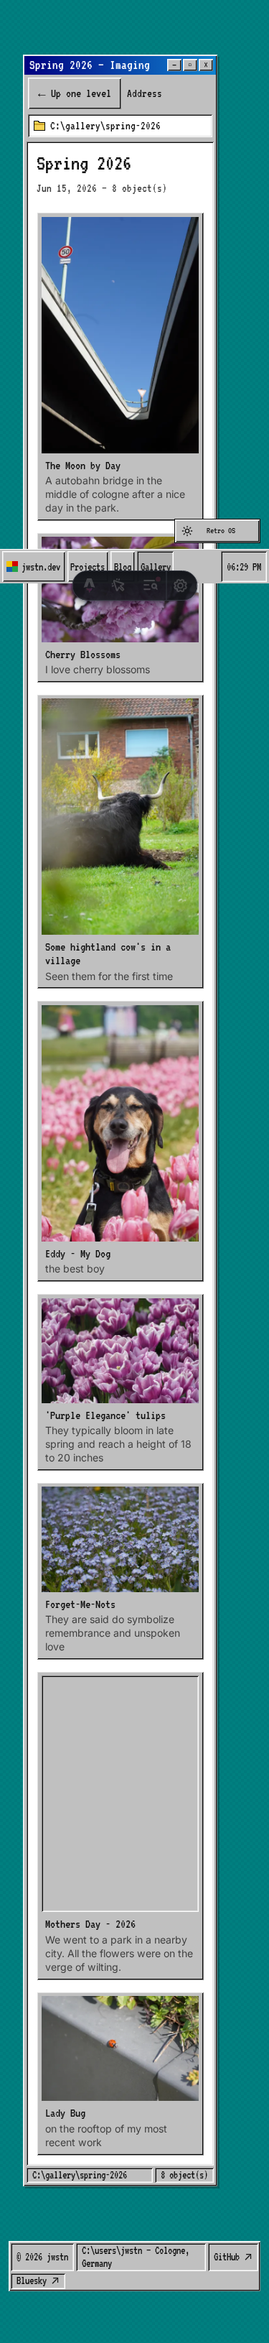
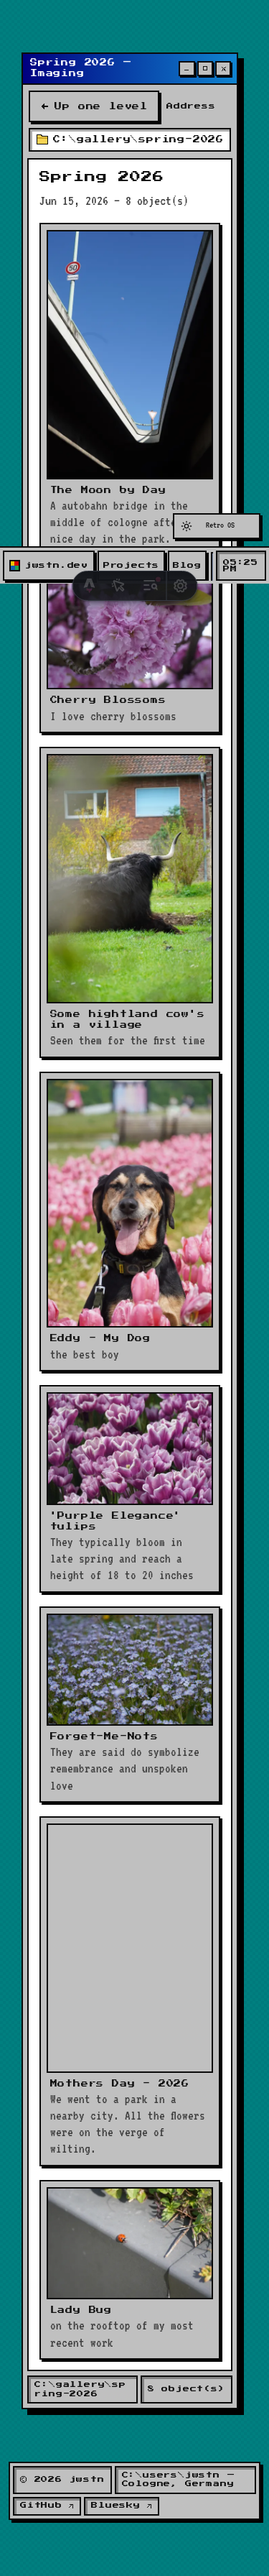
Screenshots: isometric theme + 8bitcn reworks of terminal and retro-os; refreshed 12-theme contact sheet

diff --git a/docs/SCREENSHOTS.md b/docs/SCREENSHOTS.md
@@ -15,6 +15,38 @@ An overview contact sheet of all theme homes: [`_overview.png`](screenshots/_ove
 
 ---
 
+## 0b. Isometric — 2.5D drafting table
+
+Space Grotesk + Geist Mono, drafting-paper grid (dark: night drafting desk with a glowing grid), pure-CSS
+bobbing cubes by the hero, exploded-view project slabs with grid references, dimension-line furniture,
+gallery photos tilted onto isometric planes that straighten on hover.
+
+| | | |
+|---|---|---|
+| ![isometric home](screenshots/isometric/home-desktop.png) | ![isometric projects](screenshots/isometric/projects-desktop.png) | ![isometric album](screenshots/isometric/album-desktop.png) |
+| ![isometric dark](screenshots/isometric/home-dark.png) | ![isometric blog](screenshots/isometric/blog-desktop.png) | ![isometric mobile](screenshots/isometric/home-mobile.png) |
+
+<details>
+<summary>All isometric captures</summary>
+
+![home desktop](screenshots/isometric/home-desktop.png)
+![home mobile](screenshots/isometric/home-mobile.png)
+![home dark](screenshots/isometric/home-dark.png)
+![projects desktop](screenshots/isometric/projects-desktop.png)
+![projects mobile](screenshots/isometric/projects-mobile.png)
+![project desktop](screenshots/isometric/project-desktop.png)
+![project mobile](screenshots/isometric/project-mobile.png)
+![blog desktop](screenshots/isometric/blog-desktop.png)
+![blog mobile](screenshots/isometric/blog-mobile.png)
+![gallery desktop](screenshots/isometric/gallery-desktop.png)
+![gallery mobile](screenshots/isometric/gallery-mobile.png)
+![album desktop](screenshots/isometric/album-desktop.png)
+![album mobile](screenshots/isometric/album-mobile.png)
+
+</details>
+
+---
+
 ## 0. Classic — your current design (default)
 
 The baseline, kept selectable for comparison. Geist Mono, quiet purple accents.
@@ -106,10 +138,11 @@ hard step easings — no soft fades anywhere.
 
 ---
 
-## 3. Terminal — CRT console
+## 3. Terminal — CRT console *(reworked with [8bitcn/ui](https://www.8bitcn.com/) patterns)*
 
-Geist Mono, phosphor green on black (light mode is an amber "paper terminal"), scanlines, typed
-boot-sequence home page, projects as `cat ~/projects.txt` output, taskbar-free command-bar nav.
+Phosphor green on black (light mode is an amber "paper terminal"), scanlines, typed boot-sequence home
+page, `cat ~/projects.txt` output blocks — now with 8bitcn chrome: radius-0 slab shadows, press-physics
+buttons, pixel window controls, and a Press Start 2P + Space Mono pairing (MIT-attributed port).
 
 | | | |
 |---|---|---|
@@ -292,10 +325,11 @@ hairlines, leader-dot table-of-contents projects, full-bleed cinematic gallery p
 
 ---
 
-## 9. Retro OS — Windows 95 desktop
+## 9. Retro OS — Windows 95 desktop *(reworked with [8bitcn/ui](https://www.8bitcn.com/) patterns)*
 
-VT323 chrome, teal desktop with taskbar nav and live systray clock, every section a beveled window
-with title bar, projects in Explorer details view, blog as an empty folder + "No files found" dialog.
+The Win95 desktop kept — taskbar nav with live systray clock, Explorer details view, Notepad windows,
+"No files found" blog dialog — rebuilt with 8bitcn chrome: thick ink borders with hard offset shadows,
+Press Start 2P title bars + VT323 body, rect-grid pixel window controls (MIT-attributed port).
 Dark mode is "Windows 98 night".
 
 | | | |
